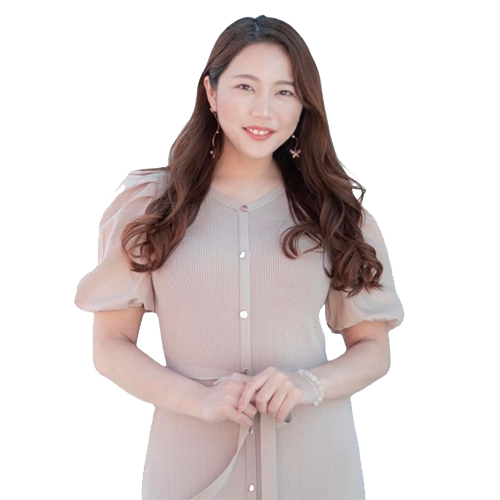
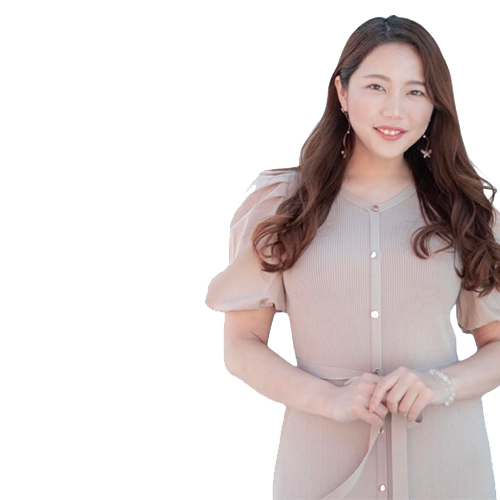
image

diff --git a/index.html b/index.html
@@ -63,10 +63,10 @@
   <button data-id="7">7</button>
   <button data-id="8">8</button>
   <button data-id="9">9</button>
-  <!-- <div id="stampSelections"></div> -->
+  <div id="stampSelections"></div>
 
-  <div style="position: relative; height: 100vh;">
-    <img src="img/08.png" style="position: absolute; bottom: 0;" />
+  <div id="personWrapper" style="position: relative;">
+    <img src="img/05.png" style="position: absolute; bottom: 0;" />
   </div>
 
   <!----------------------------------------------
@@ -356,6 +356,14 @@
     addNeverClickableClass();
     displayStampSelections();
 
+    //----------------------------------------
+    // ▼登壇者の画像を表示する
+    //----------------------------------------
+
+    const viewportHeight = window.innerHeight;
+    console.log(viewportHeight);
+    const personWrapper = document.getElementById('personWrapper');
+    personWrapper.style.height = viewportHeight + 'px';
 
     //----------------------------------------
     // ▼最初のユーザーデータ読み込み
